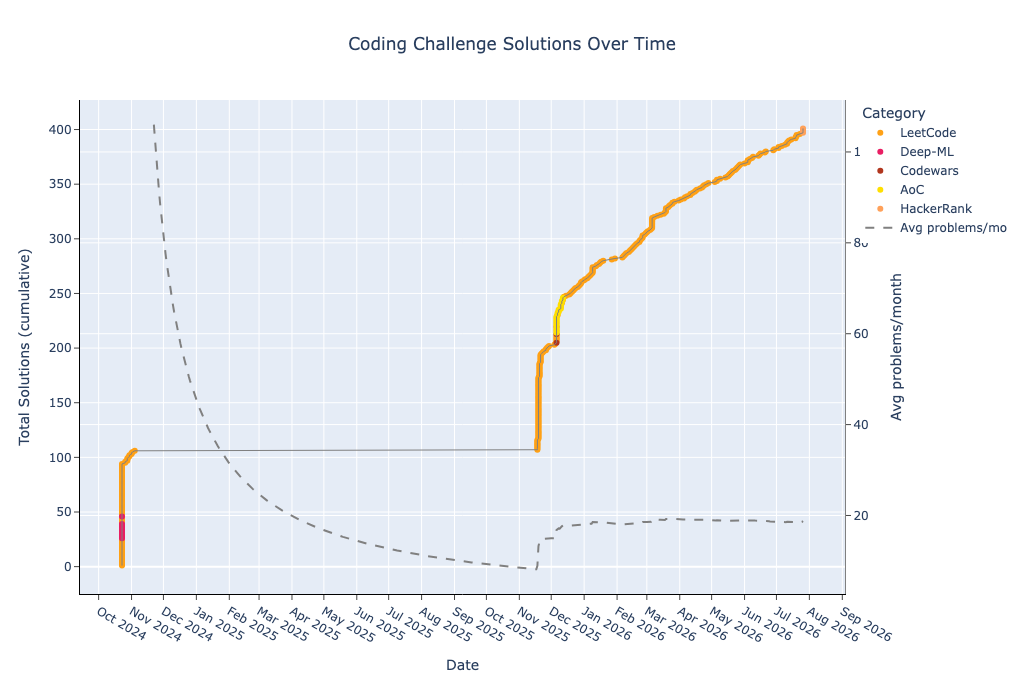
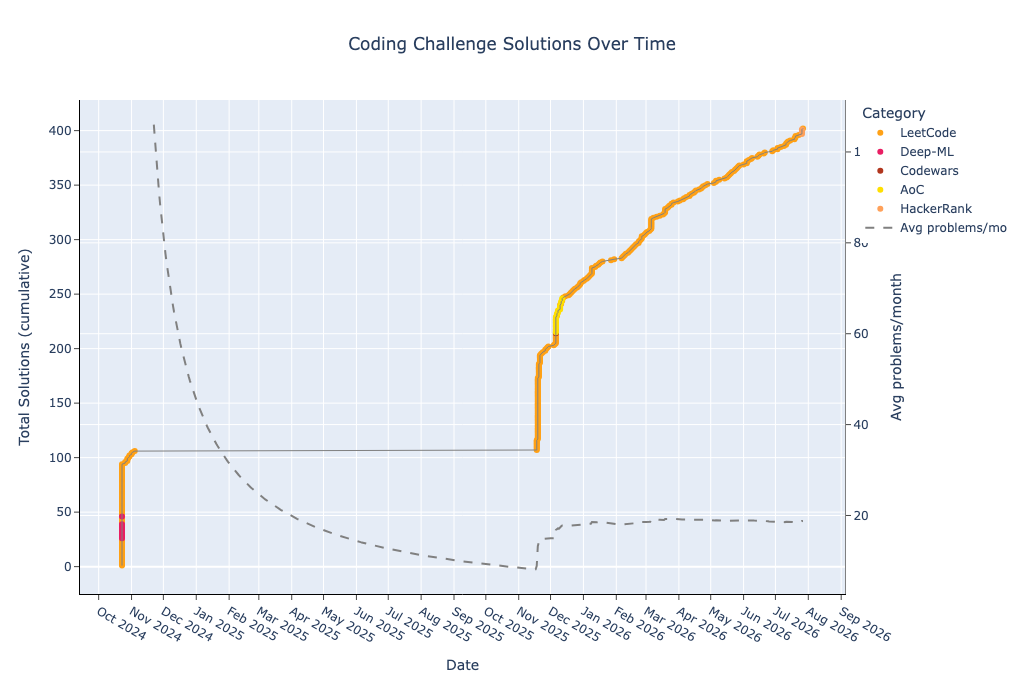
Regenerate README

diff --git a/README.md b/README.md
@@ -37,7 +37,7 @@ This repository contains a collection of coding problems solved on various platf
 | deep-ml-medium | 5 | 69 | 13 | 5 | 0 | 1 | 7 | 0 | 0 | 0 | 8 | 2 | 0 | 0 | 0 | 0 | 0 | 0 |
 | hackerrank-easy | 2 | 17 | 8 | 2 | 0 | 4 | 1 | 0 | 0 | 0 | 2 | 0 | 0 | 0 | 0 | 0 | 0 | 0 |
 | hackerrank-medium | 3 | 57 | 19 | 4 | 1 | 3 | 7 | 0 | 0 | 0 | 6 | 0 | 0 | 2 | 0 | 0 | 1 | 0 |
-| leetcode-easy | 126 | 2051 | 16 | 172 | 6 | 167 | 162 | 44 | 6 | 15 | 206 | 4 | 6 | 15 | 1 | 0 | 12 | 0 |
+| leetcode-easy | 127 | 2071 | 16 | 173 | 6 | 168 | 163 | 44 | 6 | 15 | 207 | 4 | 6 | 15 | 1 | 0 | 14 | 0 |
 | leetcode-medium | 194 | 4990 | 25 | 343 | 7 | 502 | 373 | 113 | 22 | 46 | 420 | 6 | 40 | 62 | 11 | 28 | 27 | 7 |
 | leetcode-hard | 36 | 1150 | 31 | 66 | 5 | 109 | 98 | 24 | 11 | 17 | 83 | 3 | 7 | 15 | 8 | 5 | 9 | 9 |
 
@@ -49,6 +49,7 @@ Recently solved and added problems.
 
 | Date | Type | Challenge | Solution Code | Problem Link |
 | --- | --- | --- | --- | --- |
+| 2026-07-27 | LeetCode Easy | Maximum Product of Three Numbers | [python](leetcode/easy/628.%20Maximum%20Product%20of%20Three%20Numbers.py) | [leetcode.com](https://leetcode.com/problems/maximum-product-of-three-numbers/) |
 | 2026-07-26 | HackerRank Medium | gridland-metro | [python](hackerrank/medium/gridland-metro.py) | [hackerrank.com](https://www.hackerrank.com/challenges/gridland-metro) |
 | 2026-07-26 | HackerRank Medium | the-power-sum | [python](hackerrank/medium/the-power-sum.py) | [hackerrank.com](https://www.hackerrank.com/challenges/the-power-sum) |
 | 2026-07-26 | HackerRank Medium | sherlock-and-anagrams | [python](hackerrank/medium/sherlock-and-anagrams.py) | [hackerrank.com](https://www.hackerrank.com/challenges/sherlock-and-anagrams) |
@@ -58,7 +59,6 @@ Recently solved and added problems.
 | 2026-07-20 | LeetCode Medium | Sum of GCD of Formed Pairs | [python](leetcode/medium/3867.%20Sum%20of%20GCD%20of%20Formed%20Pairs.py) | [leetcode.com](https://leetcode.com/problems/sum-of-gcd-of-formed-pairs/) |
 | 2026-07-20 | LeetCode Easy | Shift 2D Grid | [python](leetcode/easy/1260.%20Shift%202D%20Grid.py) | [leetcode.com](https://leetcode.com/problems/shift-2d-grid/) |
 | 2026-07-19 | LeetCode Medium | Smallest Subsequence of Distinct Characters | [python](leetcode/medium/1081.%20Smallest%20Subsequence%20of%20Distinct%20Characters.py) | [leetcode.com](https://leetcode.com/problems/smallest-subsequence-of-distinct-characters/) |
-| 2026-07-19 | LeetCode Easy | Find Greatest Common Divisor of Array | [python](leetcode/easy/1979.%20Find%20Greatest%20Common%20Divisor%20of%20Array.py) | [leetcode.com](https://leetcode.com/problems/find-greatest-common-divisor-of-array/) |
 # Advent of Code
 ### 2025
 | Day | Challenge | Time Complexity | Space Complexity | Solution Code | Problem Link |
@@ -155,6 +155,7 @@ Recently solved and added problems.
 | 463 | Island Perimeter | O(n) | O(1) | [python](leetcode/easy/463.%20Island%20Perimeter.py) | [leetcode.com](https://leetcode.com/problems/island-perimeter/) |
 | 482 | License Key Formatting | O(n) | O(1) | [python](leetcode/easy/482.%20License%20Key%20Formatting.py) | [leetcode.com](https://leetcode.com/problems/license-key-formatting/) |
 | 520 | Detect Capital | O(n) | O(1) | [python](leetcode/easy/520.%20Detect%20Capital.py) | [leetcode.com](https://leetcode.com/problems/detect-capital/) |
+| 628 | Maximum Product of Three Numbers | O(n) | O(1) | [python](leetcode/easy/628.%20Maximum%20Product%20of%20Three%20Numbers.py) | [leetcode.com](https://leetcode.com/problems/maximum-product-of-three-numbers/) |
 | 657 | Robot Return to Origin | O(n) | O(1) | [python](leetcode/easy/657.%20Robot%20Return%20to%20Origin.py) | [leetcode.com](https://leetcode.com/problems/robot-return-to-origin/) |
 | 693 | Binary Number with Alternating Bits | O(n) | O(1) | [python](leetcode/easy/693.%20Binary%20Number%20with%20Alternating%20Bits.py) | [leetcode.com](https://leetcode.com/problems/binary-number-with-alternating-bits/) |
 | 696 | Count Binary Substrings | O(n) | O(1) | [python](leetcode/easy/696.%20Count%20Binary%20Substrings.py) | [leetcode.com](https://leetcode.com/problems/count-binary-substrings/) |

diff --git a/CHANGES.md b/CHANGES.md
@@ -6,6 +6,7 @@ Recently solved and added problems.
 
 | Date | Type | Challenge | Solution Code | Problem Link |
 | --- | --- | --- | --- | --- |
+| 2026-07-27 | LeetCode Easy | Maximum Product of Three Numbers | [python](leetcode/easy/628.%20Maximum%20Product%20of%20Three%20Numbers.py) | [leetcode.com](https://leetcode.com/problems/maximum-product-of-three-numbers/) |
 | 2026-07-26 | HackerRank Medium | gridland-metro | [python](hackerrank/medium/gridland-metro.py) | [hackerrank.com](https://www.hackerrank.com/challenges/gridland-metro) |
 | 2026-07-26 | HackerRank Medium | the-power-sum | [python](hackerrank/medium/the-power-sum.py) | [hackerrank.com](https://www.hackerrank.com/challenges/the-power-sum) |
 | 2026-07-26 | HackerRank Medium | sherlock-and-anagrams | [python](hackerrank/medium/sherlock-and-anagrams.py) | [hackerrank.com](https://www.hackerrank.com/challenges/sherlock-and-anagrams) |
@@ -15,4 +16,3 @@ Recently solved and added problems.
 | 2026-07-20 | LeetCode Medium | Sum of GCD of Formed Pairs | [python](leetcode/medium/3867.%20Sum%20of%20GCD%20of%20Formed%20Pairs.py) | [leetcode.com](https://leetcode.com/problems/sum-of-gcd-of-formed-pairs/) |
 | 2026-07-20 | LeetCode Easy | Shift 2D Grid | [python](leetcode/easy/1260.%20Shift%202D%20Grid.py) | [leetcode.com](https://leetcode.com/problems/shift-2d-grid/) |
 | 2026-07-19 | LeetCode Medium | Smallest Subsequence of Distinct Characters | [python](leetcode/medium/1081.%20Smallest%20Subsequence%20of%20Distinct%20Characters.py) | [leetcode.com](https://leetcode.com/problems/smallest-subsequence-of-distinct-characters/) |
-| 2026-07-19 | LeetCode Easy | Find Greatest Common Divisor of Array | [python](leetcode/easy/1979.%20Find%20Greatest%20Common%20Divisor%20of%20Array.py) | [leetcode.com](https://leetcode.com/problems/find-greatest-common-divisor-of-array/) |
